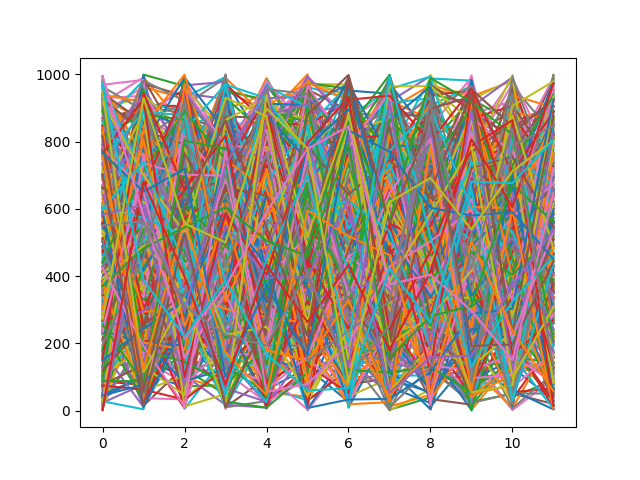
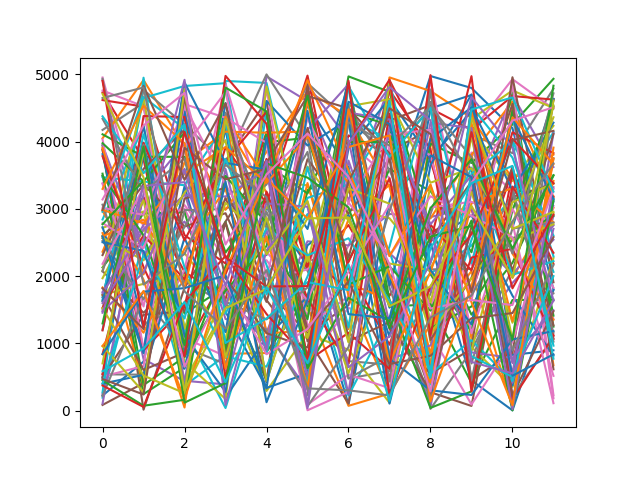
six

diff --git a/randomcustomer.py b/randomcustomer.py
@@ -1,16 +1,14 @@
+from __future__ import print_function
 import numpy as np
 import matplotlib as mp
 mp.use('Agg')
 import matplotlib.pyplot as pl
 
-customer1 = np.random.random((12,100))*1000
-customer2 = np.random.random((12,100))*1000
-customer3 = np.random.random((12,100))*1000
-customer4 = np.random.random((12,100))*1000
+customer1 = np.random.random((12,100))*5000
+customer2 = np.random.random((12,100))*10000
+customer3 = np.random.random((12,100))*50000
+customer4 = np.random.random((12,100))*100000
+print(customer1)
 
 pl.plot(customer1)
-pl.plot(customer2)
-pl.plot(customer3)
-pl.plot(customer4)
-
 pl.savefig('book5_read.png')
